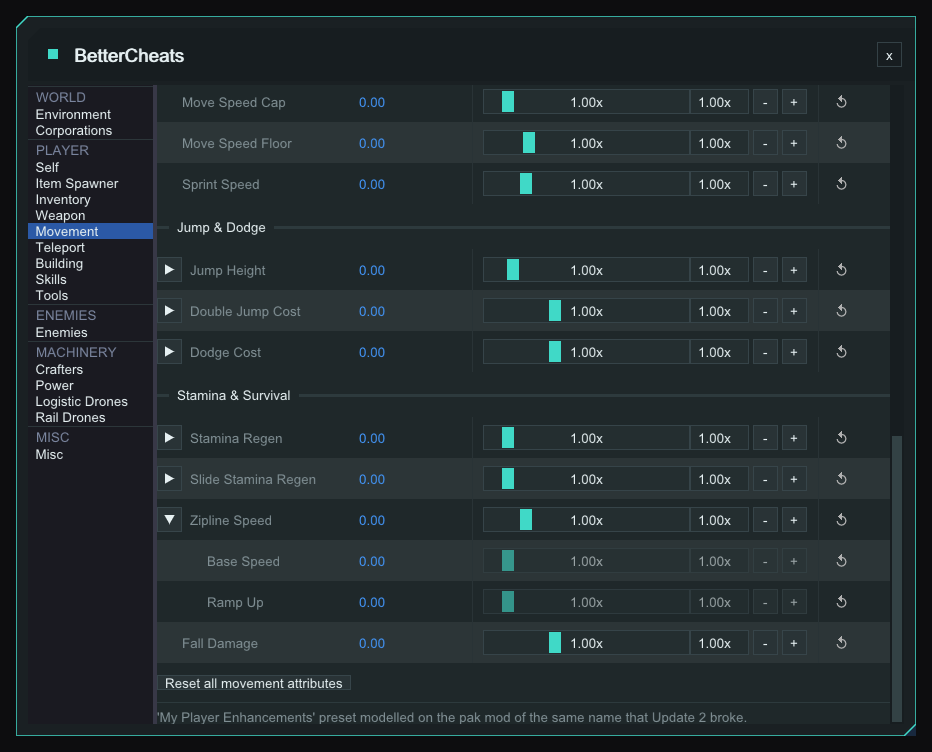
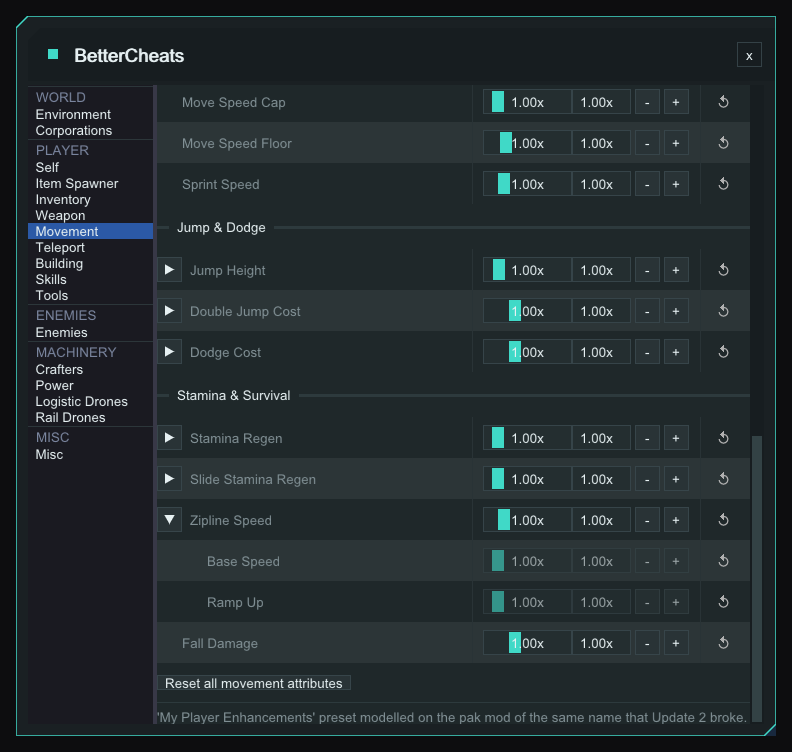
Restructure README around one screenshot per page
Show each panel page as a render with a line or two of text and bullets for keys, limits and non-obvious behaviour. Tables drop from 18 to 1 (the config keys).

diff --git a/README.md b/README.md
@@ -8,23 +8,19 @@ In-game cheat menu for [StarRupture](https://store.steampowered.com/app/1631270/
 
 ## What It Does
 
-**F10** (rebindable in the loader's keybind settings) opens the window; **Esc** or **Q** closes it (not rebindable). The pages work only in a `ChimeraMain` world, single player or with `EnableCheatsInMultiplayer` on; elsewhere the window says so. Locks and overrides are enforced every engine tick, menu open or not. Power edits are applied on Apply and on save load.
+**F10** opens the menu (rebindable in the loader's keybind settings). **Esc** or **Q** closes it (not rebindable). The pages work only in a `ChimeraMain` world, single player or with `EnableCheatsInMultiplayer` on; elsewhere the window says so. Locks and overrides are enforced every engine tick, menu open or not. Power edits are applied on Apply and on save load.
 
-| Group | Pages |
-|---|---|
-| World | Environment, Corporations |
-| Player | Self, Item Spawner, Inventory, Weapon, Movement, Teleport, Building, Skills, Tools |
-| Enemies | Enemies |
-| Machinery | Crafters, Power, Logistic Drones, Rail Drones |
-| Misc | Misc |
+Pages are grouped World, Player, Enemies and Machinery. Teleport, Crafters, Rail Drones and Misc are empty placeholders, and Logistic Drones points to `BetterDrone.ini`.
 
-Teleport, Crafters, Rail Drones and Misc are empty placeholders. Logistic Drones points to `BetterDrone.ini`.
+Most settings are one row: label, live value (what the game uses now; red when it differs from your setting; **+buff** tag and a Base / Mods / Ours / Result tooltip), slider, typed box, **-/+** and a reset icon. A value that differs from its default is applied; reset turns it off. Multipliers act on base stats, attachments and buffs still add on top.
 
-**Rows.** Most settings are one row: label, live value (what the game uses now; red when it differs from your setting; **+buff** tag and a Base / Mods / Ours / Result tooltip), slider, typed box, **-/+**, reset icon. A value that differs from its default is applied; reset turns it off. Multipliers act on base stats, attachments and buffs still add on top.
+### Saved Presets <sup>[✦](#msantoro12)</sup>
 
-### Saved Presets<sup>[†](#msantoro12)</sup>
+Power, Self, Inventory (Item Stack Sizes only), Movement, Skills, Tools and each weapon tab have a **Saved Presets** row: pick one to load it, **Save** stores the page's settings, **Rename**, **Delete** (asks first).
 
-A **Saved Presets** row sits on Power, Self, Inventory, Movement, Skills, Tools and each weapon tab. Pick one to load it. **Save** stores that page's settings (Inventory: Item Stack Sizes only) as `<built-in> Custom` or `Custom` (made unique), **Rename**, **Delete** (asks first). Up to 16 are listed per page; built-in names are reserved. Stored in `Plugins\config\BetterCheats-Presets.ini`, shared by every save.
+- Save names it `<built-in> Custom` or `Custom`, made unique. Built-in names are reserved.
+- Up to 16 are listed per page.
+- Stored in `Plugins\config\BetterCheats-Presets.ini`, shared by every save.
 
 ---
 
@@ -32,20 +28,19 @@ A **Saved Presets** row sits on Power, Self, Inventory, Movement, Skills, Tools 
 
 ### Environment
 
-Wave Status shows Type, Stage (**Skip** during a wave) and a progress bar.
+<img src="images/environment.png" width="480" alt="Environment page with wave status, controls and spawning timer">
 
-| Control | Does |
-|---|---|
-| Start Wave: **Heat** | Starts a heat wave |
-| **Pause** / **Resume** | The wave in progress |
-| **Cancel** | Ends the wave in progress, resets the Next Wave countdown and re-enables waves |
-| Pause Waves: **Pause** / **Unpause** | Pins the wave timer so the next wave never arrives, menu open or not |
-| **Restart** | Re-arms the Next Wave countdown and re-enables waves. For a rupture that never arrives after loading a save. The Next Wave readout shows m:ss, or the wave, disabled or stalled state |
-| **Enable** / **Disable** | Wave spawn timer on or off (saved with the game) |
+Watch and steer the heat wave. **Skip** force-advances the current stage; **Pause Waves** pins the timer so the next wave never arrives, menu open or not.
+
+- **Cancel** ends the wave in progress, resets the Next Wave countdown and re-enables waves.
+- **Restart** re-arms the countdown and re-enables waves, for a rupture that never arrives after loading a save. The Next Wave readout shows m:ss, or the wave, disabled or stalled state.
+- **Enable** / **Disable** switch the wave spawn timer on or off, saved with the game.
 
 ### Corporations
 
-**Data Points** box (0 or more) and **Apply**. Stored in the save, so it stays even if BetterCheats is removed.
+<img src="images/corporations.png" width="480" alt="Corporations page with the Data Points box">
+
+Set your **Data Points** (0 or more) and press **Apply**. Stored in the save, so it stays even if BetterCheats is removed.
 
 ---
 
@@ -53,144 +48,84 @@ Wave Status shows Type, Stage (**Skip** during a wave) and a progress bar.
 
 ### Self
 
-Tick **Locked** and an attribute is held at its slider value, even with the menu closed. Locks and Max Health are saved per save.
+<img src="images/self.png" width="480" alt="Self page with health, survival resources and afflictions">
 
-| Group | Rows | Button |
-|---|---|---|
-| Health | Health | **Full Heal** |
-| Max Health | Number box (step 10 / 100) | **Set** (Max and current Health) |
-| Survival Resources | Energy, Shield, Hydration, Calories, Oxygen | **Fill** |
-| Afflictions | Toxicity, Radiation, Heat, Drain, Corrosion, Infection, Temperature | **Clear** |
+Tick **Locked** and an attribute is held at its slider value, even with the menu closed. Each group has a button beside the sliders: **Full Heal**, **Fill** (survival resources) or **Clear** (afflictions). **Max Health** has a **Set** button that sets Max and current Health. Locks and Max Health are saved per save.
 
 ### Item Spawner
 
-Search the item list (icon, name, stack size), set **Stacks** (1 or more), press **Give Item**. You get stacks x stack size, shown as `xN (stack S)`.
+Search the item list (icon, name, stack size), set **Stacks** (1 or more) and press **Give Item**. You get stacks x stack size, shown as `xN (stack S)`. The page says so if the game build doesn't expose what it needs.
 
 ### Inventory
 
-**Grid.** Any **Columns x Rows** from 8 x 8 to 40 x 40, also via `bc_invsize`. The game won't shrink below slots in use, so empty it first. **Shrink slots to fit the inventory frame** (on by default) scales slots against 8 x 8 (100%): 16 x 16 is 50%, 20 x 20 is 40%, the floor. The frame doesn't scroll, so larger grids overflow. Current grid, Reference grid and Slot size are shown. Saved per save.
+<img src="images/inventory.png" width="480" alt="Inventory page with grid size, Plant Pickup and Item Stack Sizes">
 
-#### Plant Pickup<sup>[†](#msantoro12)</sup>
+Set the grid to any **Columns x Rows** from 8 x 8 to 40 x 40, saved per save. The same works from the console with `bc_invsize` (see Console).
 
-Whole-number multiplier, 1x to 5x (default 1x), on what a wild plant, mushroom or rock gives when picked up. Crops (regrowing bushes) are not covered.
+- The game won't shrink below slots in use, so empty it first.
+- **Shrink slots to fit the inventory frame** (on by default) scales slots against 8 x 8 (100%): 16 x 16 is 50% and 20 x 20 is 40%, the floor. The frame doesn't scroll, so larger grids overflow.
 
-#### Item Stack Sizes<sup>[†](#msantoro12)</sup>
+#### Plant Pickup <sup>[✦](#msantoro12)</sup>
 
-Raises stack caps for new stacks only; existing stacks keep their cap until picked up, split or merged. Raise-only: an item that already stacks higher keeps its size. Non-stacking items are shown but locked. Item beats category beats global.
+A whole-number multiplier, 1x to 5x (default 1x), on what a wild plant, mushroom or rock gives when picked up. Crops (regrowing bushes) are not covered.
 
-| Row | Range |
-|---|---|
-| Stack size (global) | 1-9999 (1 = off) |
-| Category | 1-9999: Combat, Resource, Consumable, Story Item, Alien Item, Valuable, Gem (Movement / Combat / Survival), Uncategorized, Empty Item, Blueprint Item, Other |
-| Item | stock size-9999. Search box, **Only show changed** |
+#### Item Stack Sizes <sup>[✦](#msantoro12)</sup>
 
-### Weapon<sup>[†](#msantoro12)</sup>
+Raises stack caps from 1 to 9999 as one global value, per category (Combat, Resource, Consumable, Story Item, Alien Item, Valuable, Gem, Uncategorized, Empty Item, Blueprint Item, Other) or per item, with a search box and **Only show changed**.
 
-Tabs: **Pistol**, **Rifle**, **Shotgun**, **Machine Gun**; any other weapon or grenade gets a tab when first equipped. Live values show the weapon in your hand, other tabs an estimate.
+- Item beats category beats global; a global of 1 is off.
+- New stacks only: existing stacks keep their cap until picked up, split or merged.
+- Raise-only: an item that already stacks higher keeps its size.
+- Non-stacking items are shown but locked.
 
-| Ammo option (all weapons) | Does |
-|---|---|
-| Infinite clip - ALL weapons | Clip stays full: no reload, reserve never drawn |
-| Keep ammo stocked | Tops up the equipped weapon's own ammo type with the shortfall. You still reload |
-| Keep it out of my inventory | Default on. Stocks the hidden inventory, no slot used. Untick if reloads can't draw from it |
-| Clips to keep in reserve | 1-100, default 3 |
+### Weapon <sup>[✦](#msantoro12)</sup>
 
-A live line shows `clip x/y reserve x/y` and `[restocking]`. Each tab also shows the weapon's stock damage, rounds/min, magazine and range.
+<img src="images/weapons.png" width="480" alt="Weapon page with the Better Weapons preset applied to the Pistol tab">
 
-Per weapon: **One Hit Kill** (flat 10000x damage, replaces Damage), **Infinite magazine**, **Reset this weapon to stock**, plus the preset buttons below. The asset name is shown beside Reset.
+Tabs for **Pistol**, **Rifle**, **Shotgun** and **Machine Gun**; any other weapon or grenade gets a tab when first equipped. Live values show the weapon in your hand, other tabs an estimate. The shot shows the **Better Weapons** preset applied to the Pistol.
 
-| Row | Range | Default |
-|---|---|---|
-| Damage | 0.10-25x | 1.00x |
-| Fire Rate, Reload Speed, Damage Falloff, ADS Speed | 0.10-5x | 1.00x |
-| Recoil, Spread, Sway | 0-3x | 1.00x |
-| Magazine Size | -100 to +999 (flat) | 0 |
-| Enemies Hit / Shot | 1-10 (whole) | 1 |
+- **Infinite clip - ALL weapons**: the clip stays full, no reload, reserve never drawn.
+- **Keep ammo stocked**: tops up the equipped weapon's own ammo type with the shortfall. You still reload. Off by default.
+- **Keep it out of my inventory**: on by default, stocks the hidden inventory so no slot is used. Untick it if reloads can't draw from it.
+- **Clips to keep in reserve**: 1-100, default 3. A live line shows `clip x/y reserve x/y` and `[restocking]`.
+- Per weapon: **One Hit Kill** (flat 10000x damage, replaces Damage), **Infinite magazine**, and **Reset this weapon to stock**. Magazine Size is a flat -100 to +999 offset; Enemies Hit / Shot is a whole number, 1-10.
+- Presets: **Better Weapons**, **Hand Cannon** (pistol only, heavy damage, slow fire), **Piercing** (Enemies Hit 3), **Laser Beam** (no recoil, spread or sway) and **Bullet Hose** (fast fire, +100 magazine, quick reload, tight spread).
+- **Grenade tabs** swap the rows for Charge Cost, Max Charges (0 = game default), Min Charge and **Infinite charges**, which tops the count up to max. The **Less Cost Grenade** preset halves Charge Cost. Fuse Time, Blast Radius and Throw Force sit in a **Blast** section shared by every grenade type and are not reset by **Reset this weapon**. Grenade damage can't be changed here (see `bc_grenadedmg`).
 
-| Preset | Sets |
-|---|---|
-| Better Weapons (all) | Damage 1.5, Fire Rate 1.25, Reload 1.5, Magazine +15, Falloff 1.5, Hit 2 |
-| Hand Cannon (pistol) | Damage 4, Fire Rate 0.45, Recoil 1.8, Magazine -4, Falloff 1.5, Hit 3 |
-| Piercing | Enemies Hit 3 |
-| Laser Beam | Recoil, Spread, Sway 0 |
-| Bullet Hose | Fire Rate 3, Magazine +100, Reload 2.5, Spread 0.6 |
-
-**Grenade tabs** replace those rows. **Infinite charges** tops the count up to max. Damage can't be changed here (see `bc_grenadedmg`). Preset **Less Cost Grenade**: Charge Cost 0.5.
-
-| Row | Range | Default |
-|---|---|---|
-| Charge Cost | 0-2x | 1.00x |
-| Max Charges | 0-20 (0 = game default) | 0 |
-| Min Charge | 0-5 | 0 |
-| Fuse Time * | 0.05-5x | 1.00x |
-| Blast Radius * | 0.10-5x | 1.00x |
-| Throw Force * | 0.10-5x | 1.00x |
-
-\* Shared by every grenade type (**Blast** section), not reset by **Reset this weapon**.
-
-Better Weapons, Hand Cannon, Piercing and Less Cost Grenade are modelled on pak mods Update 2 broke: Better Weapons and Less Cost Grenade by axbhub, Hand Cannon and Piercing by SwiftstepsKR.
+Better Weapons and Less Cost Grenade are modelled on pak mods Update 2 broke, by axbhub. Hand Cannon and Piercing are modelled on mods by SwiftstepsKR.
 
 ### Movement
 
-Fly mode (**No Clip**) puts the character in flight; **Space** rises, **Left** or **Right Ctrl** descends (ignored while the menu is open or the game is in the background).
+<img src="images/movement.png" width="480" alt="Movement page with fly controls, presets and the Sonic Mode preset applied">
 
-| Control | Does |
-|---|---|
-| **Fly Mode Toggle:** Active | Fly on or off |
-| **Hotkey:** | The No Clip key, also rebindable in the loader's keybind settings. Click, press a key, Esc cancels. Ctrl, Shift, Alt combos work; no mouse buttons. **Reset** returns F9 |
-| Pass Through Walls (Clipping) | Default on. Collision off, with a flashing red warning: turning Fly off inside terrain drops you through the world. Off keeps collision and shows a note that Fly is safe to toggle |
-| Fly Speed Multiplier | 1.0-25.0x, default 3.0x. A Top speed line shows km/h, mph and cm/s |
+Fly mode (**No Clip**) puts the character in flight. **Space** rises and **Left** or **Right Ctrl** descends (not rebindable; ignored while the menu is open or the game is in the background).
 
-<img src="images/movement-zipline.png" width="480" alt="Movement page with Zipline Speed expanded">
+- The **Hotkey** is F9 by default, also rebindable in the loader's keybind settings. Click it, press a key, Esc cancels; Ctrl, Shift and Alt combos work, mouse buttons don't. **Reset** returns F9.
+- **Pass Through Walls (Clipping)** is on by default. Turning Fly off inside terrain drops you through the world, so the page shows a red warning while it is on. Off keeps collision.
+- **Fly Speed Multiplier** is 1.0-25.0x, default 3.0x, with a Top speed line in km/h, mph and cm/s.
 
-Blue column: live value in game (0.00 in this shot).
+#### Tuning rows and presets <sup>[✦](#msantoro12)</sup>
 
-#### Tuning rows and presets<sup>[†](#msantoro12)</sup>
+<img src="images/movement-zipline.png" width="480" alt="Movement page scrolled to Stamina and Survival with Zipline Speed expanded">
 
-A live line shows MaxWalkSpeed, horizontal speed, JumpZVelocity and stamina. Each row below defaults to 1.00x; an arrow opens finer rows. The top rows cascade into their finer rows (Move Speed into the four gait speeds, Zipline Speed into Base Speed); each stays editable after. Finer rows stay greyed until the stock values are read (load a save); the baseline is captured once and saved per save. **Reset all movement attributes** clears everything.
+Each row defaults to 1.00x and an arrow opens finer rows behind it. Speed covers Move Speed, Acceleration, Cap, Floor and Sprint Speed. Jump & Dodge covers Jump Height, Double Jump Cost and Dodge Cost. Stamina & Survival covers Stamina Regen, Slide Stamina Regen, Zipline Speed and Fall Damage (0 removes it).
 
-| Group | Row (range) | Finer rows (range) |
-|---|---|---|
-| Speed | Move Speed (0.10-10) | Walk, Sprint, Crouch, Aiming (0.10-10) |
-| Speed | Acceleration (0.10-20) | Max Acceleration (0.10-20), Sprint Ramp Time, Ground Friction, Braking (0-5) |
-| Speed | Move Speed Cap (0.10-10), Move Speed Floor (0-5), Sprint Speed (0.10-5) | |
-| Jump & Dodge | Jump Height (0.10-8) | Jump Velocity (0.10-10), Gravity Scale (0-5), Coyote Time (0-20), Step Height (0.10-20), Jump Energy Cost (0-3) |
-| Jump & Dodge | Double Jump Cost (0-3) | Double Jump Energy (0-3) |
-| Jump & Dodge | Dodge Cost (0-3) | Dash Distance (0.10-10), Dash Duration (0.10-5), Dash Cooldown (0-3), Dash Energy Cost (0-3), Max Air Dashes (1-20), Air Control (0-20), Air Friction (0-5) |
-| Stamina & Survival | Stamina Regen (0.10-10) | Regen Rate (0.10-20), Regen Delay (0-3), Sprint Drain (0-3), Max Energy (0.10-20) |
-| Stamina & Survival | Slide Stamina Regen (0.10-10) | Max Slide Speed (0.10-10), Slide Impulse (0.10-10), Slide Gravity (0-5), Slide Friction (0-5) |
-| Stamina & Survival | Zipline Speed (0.10-5) | Base Speed (0.10-10), Ramp Up (0.10-10) |
-| Stamina & Survival | Fall Damage (0-3; 0 removes) | |
-
-Move Speed Cap and Floor are set directly, not multiplied.
-
-| Preset | Sets |
-|---|---|
-| My Player Enhancements | Move Speed and Sprint 1.25, Jump Height 1.35, Dodge Cost 0.5, Stamina and Slide Regen 1.75; finer rows: Walk and Sprint 1.25, Jump Velocity 1.35, Max Slide Speed 1.25, Regen Rate 1.75, Dash Cooldown 0.6 |
-| Sonic Mode | Move Speed, Cap and Sprint 5, Zipline 3; Crouch 3, Acceleration 3, Max Acceleration 3, Sprint Ramp Time 0.1 |
-| Moon Hop | Fall Damage 0, Jump Height 4, Double Jump Cost 0.05; Gravity 0.2, Jump Velocity 2.5, Air Control 4, Air Friction 0.3, Double Jump Energy 0.05 |
-| Endless Momentum | Dodge Cost and Double Jump Cost 0.05, Stamina and Slide Regen 8; Dash, Jump and Double Jump Energy 0.05, Dash Cooldown 0, Regen Rate 8, Regen Delay 0, Sprint Drain 0 |
-
-My Player Enhancements recreates the pak mod of the same name that Update 2 broke.
+- The top rows cascade into their finer rows (Move Speed into the four gait speeds, Zipline Speed into Base Speed); each stays editable afterwards.
+- Move Speed Cap and Floor are set directly, not multiplied.
+- Finer rows stay greyed until the stock values are read (load a save). The baseline is captured once and saved per save.
+- **Reset all movement attributes** clears everything.
+- Presets: **My Player Enhancements** (slightly faster, higher jump, cheaper dodge, quicker stamina; recreates the pak mod of the same name that Update 2 broke), **Sonic Mode** (very fast, the one in the shot), **Moon Hop** (low gravity, no fall damage) and **Endless Momentum** (near-free dodge and double jump, fast stamina regen).
 
 ### Building
 
-Off by default, saved per save, with a description under each title.
+<img src="images/building.png" width="480" alt="Building page with Placement and Research options">
 
-<img src="images/building-page.png" width="480" alt="Building page with Placement and Research options">
+Everything is off by default and saved per save. The Research options sit under a warning that changes may still end up in your save.
 
-| Option | Does |
-|---|---|
-| **No Build Cost** | Place buildings without the resources |
-| **No Stability Check** | Place buildings the stability check would refuse, including zoop and dynamic pillars |
-| **Unlock All Buildings** | Research: unlocks every building |
-| **Unlock All Recipes** | Research: unlocks every recipe |
-
-The Research options sit under a warning that changes may still end up in your save.
-
-- **Deconstruct Windows During Waves**: lets any of the four window pieces be deconstructed while a wave has heated it. Other heated buildings stay protected.<sup>[†](#msantoro12)</sup>
-- **Build Windows Anywhere**: puts a window into a habitat or Hub wall slot even when a machine or other building is in it.<sup>[†](#msantoro12)</sup>
-- **Build Benches Anywhere**: does the same for Analyzer, Armory, Cloning Bed, Food Processor, Item Printer, Recipe Table, Recycler, Research Terminal, Suit Workshop and Upgrade Station. The game only records that a slot is taken, so a bench can also go into a slot holding a window, airlock, bridge or personal storage.<sup>[†](#msantoro12)</sup>
+- **No Stability Check** also covers zoop and dynamic pillars.
+- **Deconstruct Windows During Waves**: lets any of the four window pieces be deconstructed while a wave has heated it. Other heated buildings stay protected. <sup>[✦](#msantoro12)</sup>
+- **Build Windows Anywhere**: puts a window into a habitat or Hub wall slot even when a machine or other building is in it. <sup>[✦](#msantoro12)</sup>
+- **Build Benches Anywhere**: does the same for Analyzer, Armory, Cloning Bed, Food Processor, Item Printer, Recipe Table, Recycler, Research Terminal, Suit Workshop and Upgrade Station. The game only records that a slot is taken, so a bench can also go into a slot holding a window, airlock, bridge or personal storage. <sup>[✦](#msantoro12)</sup>
 
 The two "anywhere" options relax only the collision check for the piece you place, so the ghost goes green. Your own placements only; in multiplayer they need `EnableCheatsInMultiplayer`. Still refused:
 
@@ -202,47 +137,31 @@ Creatures, characters and plants in the volume are let through only when a build
 
 ### Skills
 
-**Max All Skills** sets level 999, XP 0. **Per-Skill Overrides** sliders 0-100 for Movement, Combat and Survival. Written to the save, so it stays even if BetterCheats is removed.
+<img src="images/skills.png" width="480" alt="Skills page with Max All Skills and per-skill sliders">
+
+**Max All Skills** sets level 999, XP 0. **Per-Skill Overrides** are sliders from 0 to 100 for Movement, Combat and Survival. Written to the save, so it stays even if BetterCheats is removed.
 
 ### Tools
 
-| Option | Does |
-|---|---|
-| **One Hit Kill Laser** | Flat 10000 mining damage, overrides Mining Damage |
-| **No Handheld Drill Overheat** | Handheld drill never heats |
+<img src="images/tools.png" width="480" alt="Tools page with the Better Mining OP preset applied">
 
-No Handheld Drill Overheat holds the game's own heat-immunity tag while on; a drill that is already hot cools normally. The tag comes off when you switch it off, the world ends or the plugin unloads (loader 1.22.0 or newer; an older loader leaves it on until you respawn).
+**One Hit Kill Laser** is a flat 10000 mining damage and overrides Mining Damage. **No Handheld Drill Overheat** keeps the handheld drill from ever heating.
 
-#### Mining Power<sup>[†](#msantoro12)</sup>
+- No Handheld Drill Overheat holds the game's own heat-immunity tag while on; a drill that is already hot cools normally. The tag comes off when you switch it off, the world ends or the plugin unloads (loader 1.22.0 or newer; an older loader leaves it on until you respawn).
 
-| Row | Range (default 1.00x) |
-|---|---|
-| Mining Damage | 0.10-25 |
-| Weak Spot Multiplier | 0.10-10 |
-| Enemy Damage | 0.10-25 |
-| Range | 0.50-5 |
-| Hit Rate | 0.25-5 |
-| Aggro | 0-2 |
-| Overheat Cooldown | 0.05-5 (lower cools faster) |
-| Mining Boost | 0.10-10 (raises the max too) |
+#### Mining Power <sup>[✦](#msantoro12)</sup>
 
-Values are estimated until the mining tool is equipped. A Tools Saved Presets row also stores both toggles and Mining Boost. Presets are modelled on Better Mining Tool by astroboy314 (Nexus Mods #105):
-
-| Preset | Mining Damage | Enemy Damage | Range | Hit Rate | Aggro |
-|---|---|---|---|---|---|
-| Better Mining | 2.5 | 1.2 | 1.14 | 1.25 | 0.5 |
-| Better Mining OP | 4 | 2 | 1.43 | 1.25 | 0.25 |
+Eight rows: Mining Damage, Weak Spot Multiplier, Enemy Damage, Range, Hit Rate, Aggro, Overheat Cooldown (lower cools faster) and Mining Boost (raises the max too). Values are estimated until the mining tool is equipped. The presets **Better Mining** and **Better Mining OP** (the one in the shot) are modelled on Better Mining Tool by astroboy314 (Nexus Mods #105). A Tools Saved Presets row also stores both toggles and Mining Boost.
 
 ---
 
 ## Enemies
 
-| Option | Does |
-|---|---|
-| **Disable AI** | Stops behaviour-tree ticking and zeroes attack range, so enemies never land a hit |
-| **One-Hit Kill** | Pins every tracked enemy's health to 1, so any hit finishes them |
+<img src="images/enemies.png" width="480" alt="Enemies page with Disable AI ticked">
 
-The page shows "Tracking N active enemies." Both are saved per save.
+- **Disable AI** stops behaviour-tree ticking and zeroes attack range, so enemies never land a hit.
+- **One-Hit Kill** pins every tracked enemy's health to 1, so any hit finishes them.
+- The page shows "Tracking N active enemies." Both are saved per save.
 
 ---
 
@@ -250,7 +169,9 @@ The page shows "Tracking N active enemies." Both are saved per save.
 
 ### Power
 
-Two tables, Producers and Consumers: a number box, **Apply** and a reset arrow per building (the tooltip shows the default). Apply updates the template for new buildings and patches placed ones. **Rescan** and **Reset All** sit on top. Saved per save and re-applied by a rescan on load.
+<img src="images/power.png" width="480" alt="Power page with Rescan, Reset All and Saved Presets">
+
+In game, a Producers and a Consumers table list every building, each with a number box, **Apply** and a reset arrow (the tooltip shows the default). Apply updates the template for new buildings and patches placed ones. Saved per save and re-applied by a rescan on load.
 
 ---
 
@@ -259,7 +180,7 @@ Two tables, Producers and Consumers: a number box, **Apply** and a reset arrow p
 Mod console commands:
 
 - `bc_invsize <columns> <rows>` (alias `invsize`) resizes the inventory grid, clamped 8-40. No arguments prints the current grid.
-- `bc_grenadedmg [scale]`: multiplies the equipped grenade's base damage (a test probe). Scale 0-100, `1` (default) is unchanged; no argument prints it. Applies while a grenade is equipped, restored on switching grenades, unload and RELOAD (loader 1.22.0 or newer). Not saved.<sup>[†](#msantoro12)</sup>
+- `bc_grenadedmg [scale]`: multiplies the equipped grenade's base damage (a test probe). Scale 0-100, `1` (default) is unchanged; no argument prints it. Applies while a grenade is equipped, restored on switching grenades, unload and RELOAD (loader 1.22.0 or newer). Not saved. <sup>[✦](#msantoro12)</sup>
 
 ---
 
@@ -298,14 +219,12 @@ Both keys can be rebound at runtime via the modloader's keybind settings, and th
 
 ## Troubleshooting
 
-| Problem | Solution |
-|---|---|
-| Menu opens but is empty | Load into a save. In multiplayer, set `EnableCheatsInMultiplayer=true`. |
-| Toggle key does nothing | Check the keybind in the modloader settings -- it may have been rebound. |
-| Saved cheat settings not restored | Check `modloader.log` for errors loading `Plugins\BetterCheats\<SessionName>.json`. |
-| Plugin not loading | Check `modloader.log` in `Binaries\Win64\` for errors. |
-| Game updated, plugin broken | Some features use byte-pattern scanning. A game update may shift the patterns -- wait for a plugin update. |
-| A Building option does nothing | **Deconstruct Windows During Waves**, **Build Windows Anywhere** and **Build Benches Anywhere** each need byte patterns to match. If one misses after a game update, the plugin still loads, the option does nothing, and `modloader.log` has a line saying which one. |
+- **Menu opens but is empty:** load into a save. In multiplayer, set `EnableCheatsInMultiplayer=true`.
+- **Toggle key does nothing:** check the keybind in the modloader settings -- it may have been rebound.
+- **Saved cheat settings not restored:** check `modloader.log` for errors loading `Plugins\BetterCheats\<SessionName>.json`.
+- **Plugin not loading:** check `modloader.log` in `Binaries\Win64\` for errors.
+- **Game updated, plugin broken:** some features use byte-pattern scanning. A game update may shift the patterns -- wait for a plugin update.
+- **A Building option does nothing:** **Deconstruct Windows During Waves**, **Build Windows Anywhere** and **Build Benches Anywhere** each need byte patterns to match. If one misses after a game update, the plugin still loads, the option does nothing, and `modloader.log` has a line saying which one.
 
 ---
 
@@ -336,4 +255,4 @@ Original mod by [@AlienXAXS](https://github.com/AlienXAXS).
 Contributors:
 
 - [@Lorke76](https://github.com/Lorke76)
-- <a id="msantoro12"></a>[@msantoro12](https://github.com/msantoro12), creator of [StarRupture Planner](https://starrupture.goodstuff.software). Features marked † are his, built with Claude Code.
+- <a id="msantoro12"></a><sup>✦</sup> [@msantoro12](https://github.com/msantoro12), creator of [StarRupture Planner](https://starrupture.goodstuff.software)
